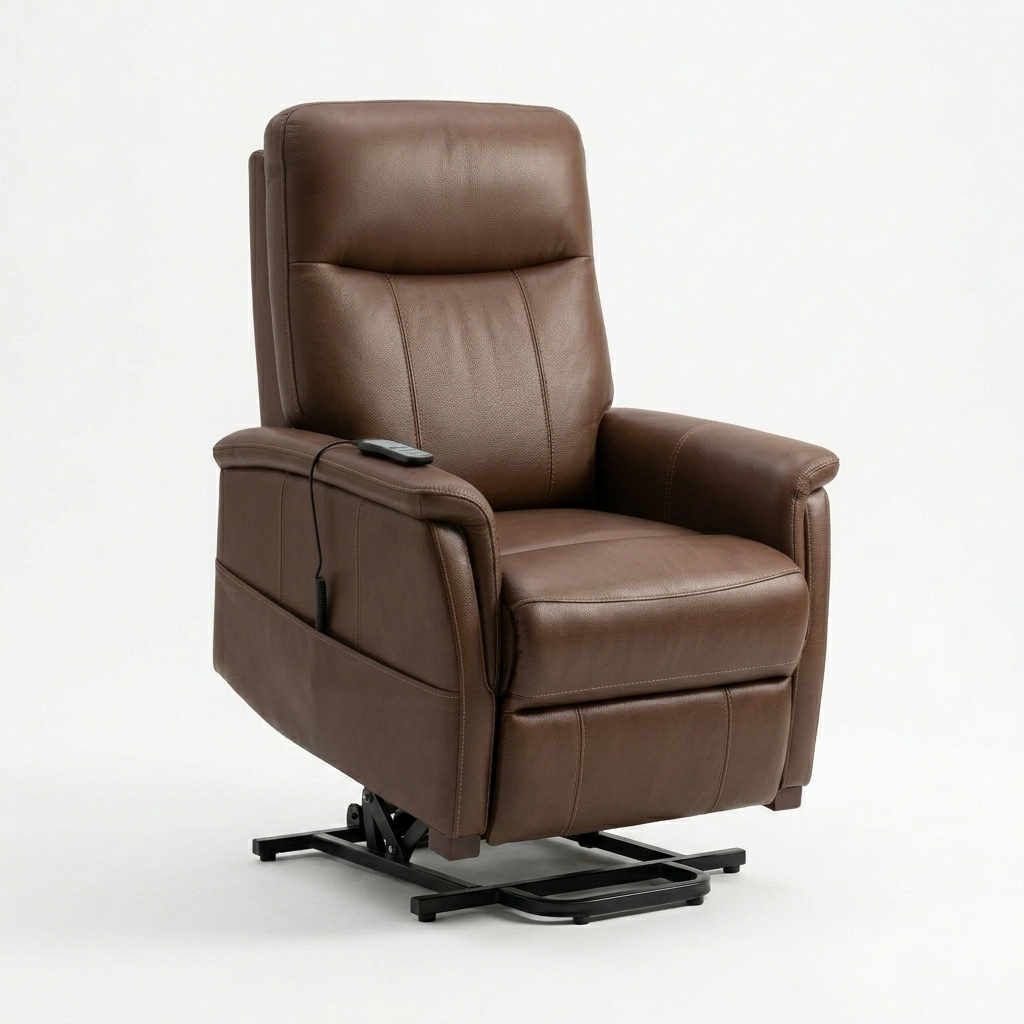
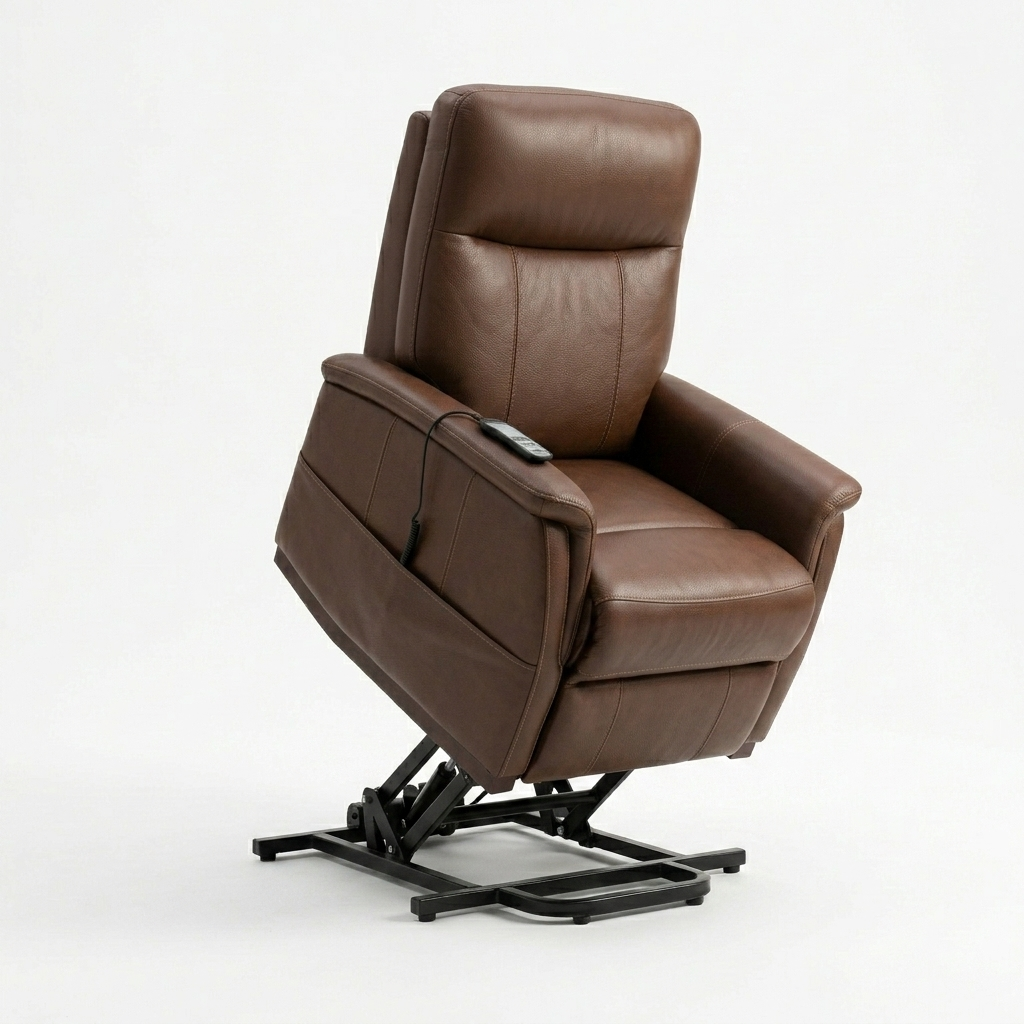
Regenerate elevated lift position photo with a much steeper tilt and higher lift elevation for a distinct visual standing state, and bump version to 5.0

Changed region(s): [[0.1875, 0.0625, 0.8438, 0.9062]]

diff --git a/beheer.html b/beheer.html
@@ -9,7 +9,7 @@
   <link rel="icon" type="image/png" sizes="32x32" href="favicon-32x32.png">
   <link rel="icon" type="image/png" sizes="16x16" href="favicon-16x16.png">
   <link rel="manifest" href="site.webmanifest">
-  <link rel="stylesheet" href="style.css?v=4.9.51">
+  <link rel="stylesheet" href="style.css?v=5.0.51">
   <style>
     /* Admin Dashboard Specific Styles */
     /* Reset fonts to match website styles */
@@ -536,7 +536,7 @@
       
       <div class="admin-title-row" style="margin-bottom: 16px;">
         <div>
-          <h1 class="admin-title">Sta-op Stoelen Beheer Dashboard <span style="font-size: 0.85rem; font-weight: normal; color: var(--color-gray); background-color: var(--color-cream-dark); padding: 4px 10px; border-radius: var(--radius-sm); margin-left: 12px; border: 1px solid var(--color-gray-light); vertical-align: middle;">v4.9</span></h1>
+          <h1 class="admin-title">Sta-op Stoelen Beheer Dashboard <span style="font-size: 0.85rem; font-weight: normal; color: var(--color-gray); background-color: var(--color-cream-dark); padding: 4px 10px; border-radius: var(--radius-sm); margin-left: 12px; border: 1px solid var(--color-gray-light); vertical-align: middle;">v5.0</span></h1>
           <p style="color: var(--color-gray); margin-top: 4px;">Beheer de catalogus en merken van staopstoelen.nl</p>
         </div>
       </div>

diff --git a/faq.html b/faq.html
@@ -9,7 +9,7 @@
   <link rel="icon" type="image/png" sizes="32x32" href="favicon-32x32.png">
   <link rel="icon" type="image/png" sizes="16x16" href="favicon-16x16.png">
   <link rel="manifest" href="site.webmanifest">
-  <link rel="stylesheet" href="style.css?v=4.9">
+  <link rel="stylesheet" href="style.css?v=5.0">
   <!-- Schema.org LocalBusiness Structured Data -->
   <script type="application/ld+json">
   {
@@ -449,7 +449,7 @@
         &copy; 2026 staopstoelen.nl. Alle rechten voorbehouden.
       </div>
       <div style="font-size: 0.875rem; color: rgba(255,255,255,0.5);">
-        Gerealiseerd door BewegingsTechnologen. | Versie 4.9
+        Gerealiseerd door BewegingsTechnologen. | Versie 5.0
       </div>
     </div>
   </footer>

diff --git a/index.html b/index.html
@@ -9,7 +9,7 @@
   <link rel="icon" type="image/png" sizes="32x32" href="favicon-32x32.png">
   <link rel="icon" type="image/png" sizes="16x16" href="favicon-16x16.png">
   <link rel="manifest" href="site.webmanifest">
-  <link rel="stylesheet" href="style.css?v=4.9">
+  <link rel="stylesheet" href="style.css?v=5.0">
   <!-- Schema.org LocalBusiness Structured Data -->
   <script type="application/ld+json">
   {
@@ -357,7 +357,7 @@
         &copy; 2026 staopstoelen.nl. Alle rechten voorbehouden.
       </div>
       <div style="font-size: 0.875rem; color: rgba(255,255,255,0.5);">
-        Gerealiseerd door BewegingsTechnologen. | Versie 4.9
+        Gerealiseerd door BewegingsTechnologen. | Versie 5.0
       </div>
     </div>
   </footer>

diff --git a/info.html b/info.html
@@ -9,7 +9,7 @@
   <link rel="icon" type="image/png" sizes="32x32" href="favicon-32x32.png">
   <link rel="icon" type="image/png" sizes="16x16" href="favicon-16x16.png">
   <link rel="manifest" href="site.webmanifest">
-  <link rel="stylesheet" href="style.css?v=4.9">
+  <link rel="stylesheet" href="style.css?v=5.0">
   <!-- Schema.org LocalBusiness Structured Data -->
   <script type="application/ld+json">
   {
@@ -381,7 +381,7 @@
         &copy; 2026 staopstoelen.nl. Alle rechten voorbehouden.
       </div>
       <div style="font-size: 0.875rem; color: rgba(255,255,255,0.5);">
-        Gerealiseerd door BewegingsTechnologen. | Versie 4.9
+        Gerealiseerd door BewegingsTechnologen. | Versie 5.0
       </div>
     </div>
   </footer>

diff --git a/winkel.html b/winkel.html
@@ -9,7 +9,7 @@
   <link rel="icon" type="image/png" sizes="32x32" href="favicon-32x32.png">
   <link rel="icon" type="image/png" sizes="16x16" href="favicon-16x16.png">
   <link rel="manifest" href="site.webmanifest">
-  <link rel="stylesheet" href="style.css?v=4.9">
+  <link rel="stylesheet" href="style.css?v=5.0">
   <style>
     .gallery-grid {
       display: grid;
@@ -343,7 +343,7 @@
         &copy; 2026 staopstoelen.nl. Alle rechten voorbehouden.
       </div>
       <div style="font-size: 0.875rem; color: rgba(255,255,255,0.5);">
-        Gerealiseerd door BewegingsTechnologen. | Versie 4.9
+        Gerealiseerd door BewegingsTechnologen. | Versie 5.0
       </div>
     </div>
   </footer>

diff --git a/seniorenstoelen.html b/seniorenstoelen.html
@@ -9,7 +9,7 @@
   <link rel="icon" type="image/png" sizes="32x32" href="favicon-32x32.png">
   <link rel="icon" type="image/png" sizes="16x16" href="favicon-16x16.png">
   <link rel="manifest" href="site.webmanifest">
-  <link rel="stylesheet" href="style.css?v=4.9">
+  <link rel="stylesheet" href="style.css?v=5.0">
   <style>
 
     .catalog-layout {
@@ -346,7 +346,7 @@
         &copy; 2026 staopstoelen.nl. Alle rechten voorbehouden.
       </div>
       <div style="font-size: 0.875rem; color: rgba(255,255,255,0.5);">
-        Gerealiseerd door BewegingsTechnologen. | Versie 4.9
+        Gerealiseerd door BewegingsTechnologen. | Versie 5.0
       </div>
     </div>
   </footer>

diff --git a/staopstoelen.html b/staopstoelen.html
@@ -9,7 +9,7 @@
   <link rel="icon" type="image/png" sizes="32x32" href="favicon-32x32.png">
   <link rel="icon" type="image/png" sizes="16x16" href="favicon-16x16.png">
   <link rel="manifest" href="site.webmanifest">
-  <link rel="stylesheet" href="style.css?v=4.9">
+  <link rel="stylesheet" href="style.css?v=5.0">
   <style>
 
     .catalog-layout {
@@ -346,7 +346,7 @@
         &copy; 2026 staopstoelen.nl. Alle rechten voorbehouden.
       </div>
       <div style="font-size: 0.875rem; color: rgba(255,255,255,0.5);">
-        Gerealiseerd door BewegingsTechnologen. | Versie 4.9
+        Gerealiseerd door BewegingsTechnologen. | Versie 5.0
       </div>
     </div>
   </footer>

diff --git a/afspraak.html b/afspraak.html
@@ -9,7 +9,7 @@
   <link rel="icon" type="image/png" sizes="32x32" href="favicon-32x32.png">
   <link rel="icon" type="image/png" sizes="16x16" href="favicon-16x16.png">
   <link rel="manifest" href="site.webmanifest">
-  <link rel="stylesheet" href="style.css?v=4.9">
+  <link rel="stylesheet" href="style.css?v=5.0">
 </head>
 <body>
 
@@ -318,7 +318,7 @@
         &copy; 2026 staopstoelen.nl. Alle rechten voorbehouden.
       </div>
       <div style="font-size: 0.875rem; color: rgba(255,255,255,0.5);">
-        Gerealiseerd door BewegingsTechnologen. | Versie 4.9
+        Gerealiseerd door BewegingsTechnologen. | Versie 5.0
       </div>
     </div>
   </footer>

diff --git a/ervaringen.html b/ervaringen.html
@@ -9,7 +9,7 @@
   <link rel="icon" type="image/png" sizes="32x32" href="favicon-32x32.png">
   <link rel="icon" type="image/png" sizes="16x16" href="favicon-16x16.png">
   <link rel="manifest" href="site.webmanifest">
-  <link rel="stylesheet" href="style.css?v=4.9">
+  <link rel="stylesheet" href="style.css?v=5.0">
 </head>
 <body>
 
@@ -265,7 +265,7 @@
         &copy; 2026 staopstoelen.nl. Alle rechten voorbehouden.
       </div>
       <div style="font-size: 0.875rem; color: rgba(255,255,255,0.5);">
-        Gerealiseerd door BewegingsTechnologen. | Versie 4.9
+        Gerealiseerd door BewegingsTechnologen. | Versie 5.0
       </div>
     </div>
   </footer>

diff --git a/keuzehulp.html b/keuzehulp.html
@@ -9,7 +9,7 @@
   <link rel="icon" type="image/png" sizes="32x32" href="favicon-32x32.png">
   <link rel="icon" type="image/png" sizes="16x16" href="favicon-16x16.png">
   <link rel="manifest" href="site.webmanifest">
-  <link rel="stylesheet" href="style.css?v=4.9">
+  <link rel="stylesheet" href="style.css?v=5.0">
 </head>
 <body>
 
@@ -334,7 +334,7 @@
         &copy; 2026 staopstoelen.nl. Alle rechten voorbehouden.
       </div>
       <div style="font-size: 0.875rem; color: rgba(255,255,255,0.5);">
-        Gerealiseerd door BewegingsTechnologen. | Versie 4.9
+        Gerealiseerd door BewegingsTechnologen. | Versie 5.0
       </div>
     </div>
   </footer>

diff --git a/revisie.html b/revisie.html
@@ -9,7 +9,7 @@
   <link rel="icon" type="image/png" sizes="32x32" href="favicon-32x32.png">
   <link rel="icon" type="image/png" sizes="16x16" href="favicon-16x16.png">
   <link rel="manifest" href="site.webmanifest">
-  <link rel="stylesheet" href="style.css?v=4.9">
+  <link rel="stylesheet" href="style.css?v=5.0">
 </head>
 <body>
 
@@ -257,7 +257,7 @@
         &copy; 2026 staopstoelen.nl. Alle rechten voorbehouden.
       </div>
       <div style="font-size: 0.875rem; color: rgba(255,255,255,0.5);">
-        Gerealiseerd door BewegingsTechnologen. | Versie 4.9
+        Gerealiseerd door BewegingsTechnologen. | Versie 5.0
       </div>
     </div>
   </footer>
